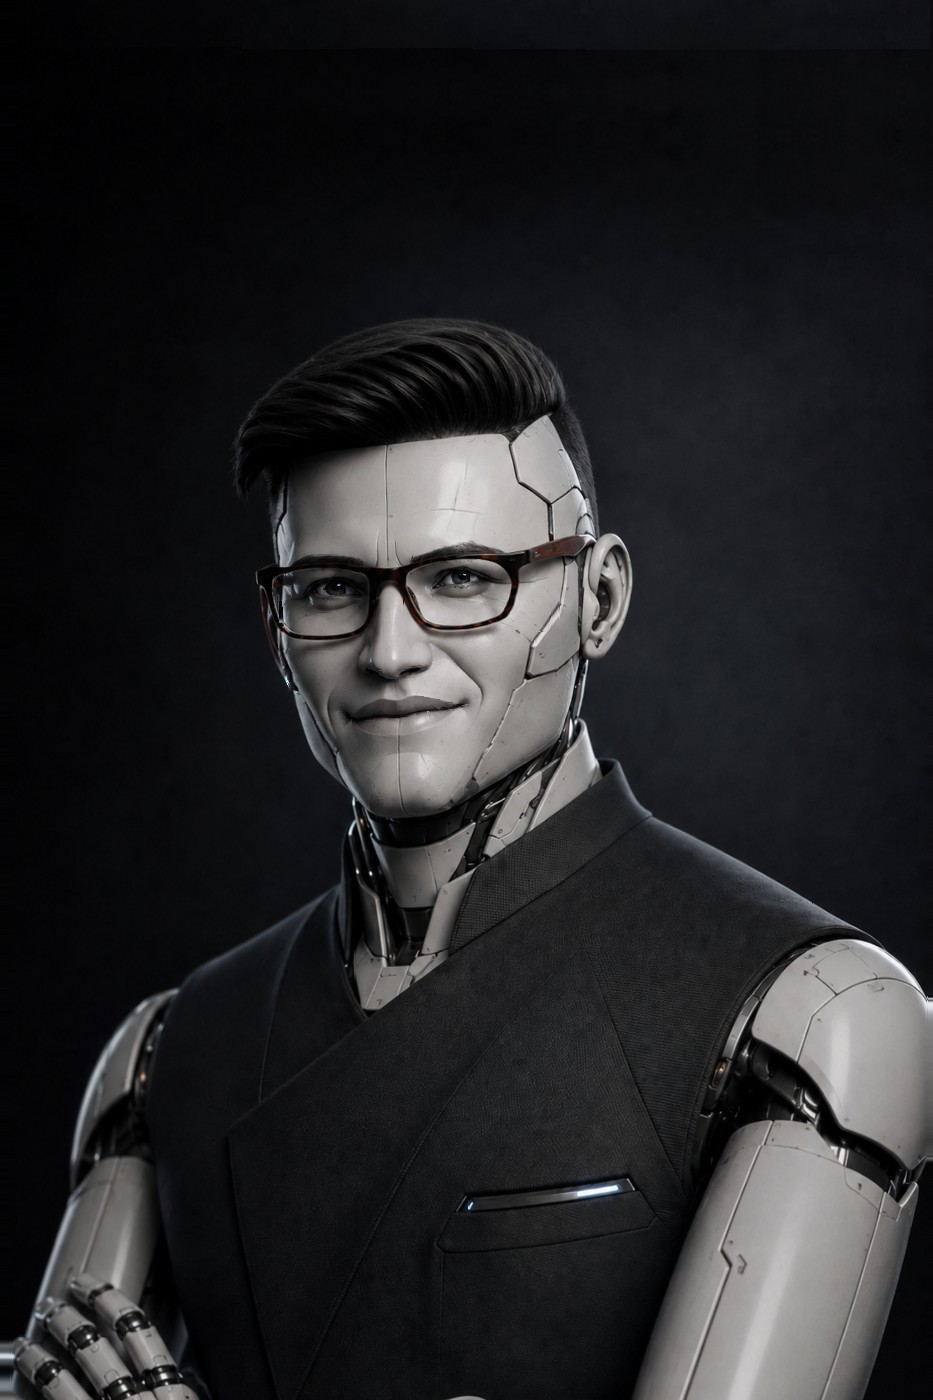
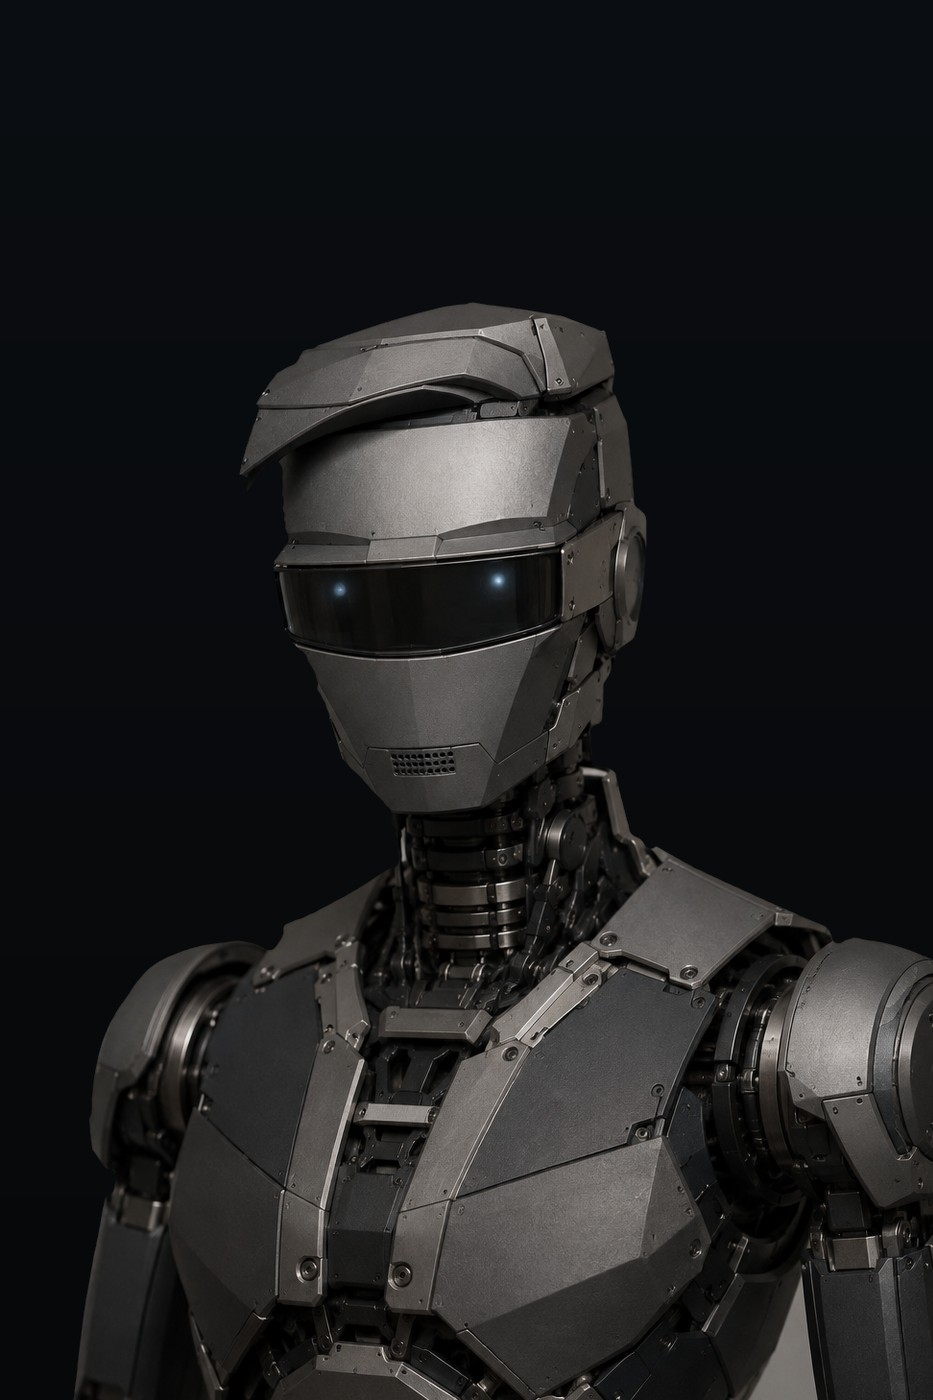
New robot for the reveal, and fix the mobile hero
The portrait was wrapped in a .dhero__right column sized with width:max-content,
whose only child derives its width from height plus aspect-ratio. WebKit does not
resolve that, so the column collapsed and the mobile hero fell apart. The status
card now lives inside the figure itself, which already carries the aspect ratio,
and the wrapper is gone.

- phones size the portrait from width instead of svh, so the changing iOS URL bar
  cannot affect it, and the .term breakpoint now matches the 1020px point where
  the grid drops to one column (901-1020 was an untested gap)
- swept 320 to 1920: no horizontal scroll, the card is never wider than the photo
- portrait-android.jpg replaced with the armoured robot. It has no face, so the
  landmark warp does not apply; it is aligned by head geometry instead, visor onto
  the eye line. Its studio backdrop is flood-filled to the site's dark tone so
  nothing light bleeds inside the silhouette

diff --git a/index.html b/index.html
@@ -121,8 +121,7 @@
           <span class="dhero__name-b">PAUNOV</span>
         </h1>
 
-        <div class="dhero__right">
-          <figure class="term" id="term" tabindex="0"
+        <figure class="term" id="term" tabindex="0"
                   aria-label="Portrait of Alen Paunov – paint over it to reveal the machine">
             <div class="term__wrap" id="termWrap">
               <img class="term__photo" id="termPhoto" src="img/portrait-hero.png"
@@ -131,19 +130,18 @@
             </div>
 
             <figcaption class="term__hint mono" data-i18n="term.hint">paint over me &#10022;</figcaption>
-          </figure>
 
-          <aside class="dpanel mono" aria-hidden="true">
-            <span class="dpanel__label">status</span>
-            <span class="dpanel__value" data-h="human &#183; sofia, bg" data-d="machine &#183; online"></span>
-            <div class="dpanel__bar"><i></i></div>
-            <ul class="dpanel__rows">
-              <li><b>unit</b><span data-h="curiosity" data-d="ap-800"></span></li>
-              <li><b>mission</b><span data-h="strategy &#183; edu" data-d="teach ai"></span></li>
-              <li><b>uptime</b><span data-h="10+ yrs" data-d="10+ yrs"></span></li>
-            </ul>
-          </aside>
-        </div>
+            <aside class="dpanel mono" aria-hidden="true">
+              <span class="dpanel__label">status</span>
+              <span class="dpanel__value" data-h="human &#183; sofia, bg" data-d="machine &#183; online"></span>
+              <div class="dpanel__bar"><i></i></div>
+              <ul class="dpanel__rows">
+                <li><b>unit</b><span data-h="curiosity" data-d="ap-800"></span></li>
+                <li><b>mission</b><span data-h="strategy &#183; edu" data-d="teach ai"></span></li>
+                <li><b>uptime</b><span data-h="10+ yrs" data-d="10+ yrs"></span></li>
+              </ul>
+            </aside>
+        </figure>
 
         <p class="hero__sub dhero__sub">
           <span data-i18n="hero.sub">I help companies and educators turn AI from hype into</span>

diff --git a/css/hero-machine.css b/css/hero-machine.css
@@ -26,11 +26,13 @@
 
 /* ---------- the portrait ---------- */
 .term {
+  grid-area: photo;
+  justify-self: center; align-self: center;
   position: relative; z-index: 3;
   margin: 0;
   /* never taller than the room left under the header, so the hero always fits */
   height: min(84svh, calc(100svh - var(--nav-h) - 62px), 900px);
-  max-width: 100%;
+  width: auto; max-width: 100%;
   aspect-ratio: 933 / 1400;
   outline: none;
 }
@@ -83,12 +85,16 @@ html.is-boot .dpanel__bar i { background: linear-gradient(90deg, #7c3aed, #ff4a1
 @media (max-width: 1120px) {
   .dnav__links { display: none; }
 }
-@media (max-width: 900px) {
-  .term { height: min(62svh, 600px); margin: 18px 0 0; }
+/* matches the breakpoint where the hero grid drops to one column */
+@media (max-width: 1020px) {
+  .term { height: auto; width: min(58vw, 430px); margin: 20px 0 0; }
   .term__hint { bottom: 112px; right: 2px; }
 }
+@media (max-width: 900px) {
+  .term { width: min(74vw, 400px); margin: 18px 0 0; }
+}
 @media (max-width: 620px) {
-  .term { height: 58svh; margin: 14px 0 0; }
+  .term { height: auto; width: min(80vw, 340px); margin: 14px 0 0; }
   .term__hint { bottom: 104px; right: 0; font-size: .6rem; }
 }
 

diff --git a/css/hero.css b/css/hero.css
@@ -105,15 +105,6 @@
   padding: calc(var(--nav-h) + 22px) var(--pad-x) 34px;
 }
 
-/* portrait with the status card tucked under it */
-.dhero__right {
-  grid-area: photo;
-  position: relative;
-  justify-self: center; align-self: center;
-  width: max-content; max-width: 100%;
-  min-width: 0;
-}
-
 .dhero__kicker {
   grid-area: kicker;
   margin: 0 0 22px; color: var(--muted); max-width: 42ch;
